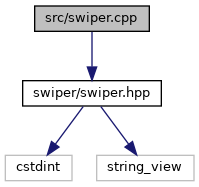
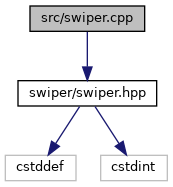
Travis build: 165
Commit: 5cc8380cc26ef2c0d9dc800b6d647a72bb5c41b5

diff --git a/namespaceswiper.html b/namespaceswiper.html
@@ -77,12 +77,12 @@ Functions</h2></td></tr>
 <tr class="memitem:a9fc0daa3bed5f7da055d9b4efc17758e"><td class="memItemLeft" align="right" valign="top">void&#160;</td><td class="memItemRight" valign="bottom"><a class="el" href="namespaceswiper.html#a9fc0daa3bed5f7da055d9b4efc17758e">Spin</a> (uint_fast32_t n) noexcept</td></tr>
 <tr class="memdesc:a9fc0daa3bed5f7da055d9b4efc17758e"><td class="mdescLeft">&#160;</td><td class="mdescRight">Spin performs n NOP's, useful for reducing benchmark noise.  <a href="namespaceswiper.html#a9fc0daa3bed5f7da055d9b4efc17758e">More...</a><br /></td></tr>
 <tr class="separator:a9fc0daa3bed5f7da055d9b4efc17758e"><td class="memSeparator" colspan="2">&#160;</td></tr>
-<tr class="memitem:a9134d86a7fd272a4e5755b59077321dd"><td class="memItemLeft" align="right" valign="top">void&#160;</td><td class="memItemRight" valign="bottom"><a class="el" href="namespaceswiper.html#a9134d86a7fd272a4e5755b59077321dd">WarmCache</a> (char *password, const std::string_view &amp;hash, uint_fast32_t n) noexcept</td></tr>
-<tr class="memdesc:a9134d86a7fd272a4e5755b59077321dd"><td class="mdescLeft">&#160;</td><td class="mdescRight">WarmCache accelerates successive <a class="el" href="namespaceswiper.html#a31bf3c2415b5b36b6fef855352c54c1b">Decrypt</a> calls, by prepopulating the system cache.  <a href="namespaceswiper.html#a9134d86a7fd272a4e5755b59077321dd">More...</a><br /></td></tr>
-<tr class="separator:a9134d86a7fd272a4e5755b59077321dd"><td class="memSeparator" colspan="2">&#160;</td></tr>
-<tr class="memitem:a31bf3c2415b5b36b6fef855352c54c1b"><td class="memItemLeft" align="right" valign="top">void&#160;</td><td class="memItemRight" valign="bottom"><a class="el" href="namespaceswiper.html#a31bf3c2415b5b36b6fef855352c54c1b">Decrypt</a> (char *password, const std::string_view &amp;hash) noexcept</td></tr>
-<tr class="memdesc:a31bf3c2415b5b36b6fef855352c54c1b"><td class="mdescLeft">&#160;</td><td class="mdescRight">Decrypt reverses Cisco IOS type 7 hashes.  <a href="namespaceswiper.html#a31bf3c2415b5b36b6fef855352c54c1b">More...</a><br /></td></tr>
-<tr class="separator:a31bf3c2415b5b36b6fef855352c54c1b"><td class="memSeparator" colspan="2">&#160;</td></tr>
+<tr class="memitem:a3dbd56f1b79952bcaebe53de028f95e2"><td class="memItemLeft" align="right" valign="top">void&#160;</td><td class="memItemRight" valign="bottom"><a class="el" href="namespaceswiper.html#a3dbd56f1b79952bcaebe53de028f95e2">WarmCache</a> (char *password, size_t hash_len, const char *hash, uint_fast32_t n) noexcept</td></tr>
+<tr class="memdesc:a3dbd56f1b79952bcaebe53de028f95e2"><td class="mdescLeft">&#160;</td><td class="mdescRight">WarmCache accelerates successive <a class="el" href="namespaceswiper.html#a310674d83e4cf5220e18f6983cfaab87">Decrypt</a> calls, by prepopulating the system cache.  <a href="namespaceswiper.html#a3dbd56f1b79952bcaebe53de028f95e2">More...</a><br /></td></tr>
+<tr class="separator:a3dbd56f1b79952bcaebe53de028f95e2"><td class="memSeparator" colspan="2">&#160;</td></tr>
+<tr class="memitem:a310674d83e4cf5220e18f6983cfaab87"><td class="memItemLeft" align="right" valign="top">void&#160;</td><td class="memItemRight" valign="bottom"><a class="el" href="namespaceswiper.html#a310674d83e4cf5220e18f6983cfaab87">Decrypt</a> (char *password, size_t hash_len, const char *hash) noexcept</td></tr>
+<tr class="memdesc:a310674d83e4cf5220e18f6983cfaab87"><td class="mdescLeft">&#160;</td><td class="mdescRight">Decrypt reverses Cisco IOS type 7 hashes.  <a href="namespaceswiper.html#a310674d83e4cf5220e18f6983cfaab87">More...</a><br /></td></tr>
+<tr class="separator:a310674d83e4cf5220e18f6983cfaab87"><td class="memSeparator" colspan="2">&#160;</td></tr>
 </table><table class="memberdecls">
 <tr class="heading"><td colspan="2"><h2 class="groupheader"><a name="var-members"></a>
 Variables</h2></td></tr>
@@ -94,8 +94,8 @@ Variables</h2></td></tr>
 <div class="textblock"><p>swiper manages legacy Cisco IOS^tm type 7 passwords. </p>
 <dl class="section copyright"><dt>Copyright</dt><dd>2020 YelloSoft </dd></dl>
 </div><h2 class="groupheader">Function Documentation</h2>
-<a id="a31bf3c2415b5b36b6fef855352c54c1b"></a>
-<h2 class="memtitle"><span class="permalink"><a href="#a31bf3c2415b5b36b6fef855352c54c1b">&#9670;&nbsp;</a></span>Decrypt()</h2>
+<a id="a310674d83e4cf5220e18f6983cfaab87"></a>
+<h2 class="memtitle"><span class="permalink"><a href="#a310674d83e4cf5220e18f6983cfaab87">&#9670;&nbsp;</a></span>Decrypt()</h2>
 
 <div class="memitem">
 <div class="memproto">
@@ -112,7 +112,13 @@ Variables</h2></td></tr>
         <tr>
           <td class="paramkey"></td>
           <td></td>
-          <td class="paramtype">const std::string_view &amp;&#160;</td>
+          <td class="paramtype">size_t&#160;</td>
+          <td class="paramname"><em>hash_len</em>, </td>
+        </tr>
+        <tr>
+          <td class="paramkey"></td>
+          <td></td>
+          <td class="paramtype">const char *&#160;</td>
           <td class="paramname"><em>hash</em>&#160;</td>
         </tr>
         <tr>
@@ -133,6 +139,7 @@ Variables</h2></td></tr>
 <dl class="params"><dt>Parameters</dt><dd>
   <table class="params">
     <tr><td class="paramname">password</td><td>out buffer (hash length / 2 characters) </td></tr>
+    <tr><td class="paramname">hash_len</td><td>string length of hash </td></tr>
     <tr><td class="paramname">hash</td><td>Cisco IOS^tm type 7 (lowercase, min length 4) </td></tr>
   </table>
   </dd>
@@ -175,8 +182,8 @@ Variables</h2></td></tr>
 
 </div>
 </div>
-<a id="a9134d86a7fd272a4e5755b59077321dd"></a>
-<h2 class="memtitle"><span class="permalink"><a href="#a9134d86a7fd272a4e5755b59077321dd">&#9670;&nbsp;</a></span>WarmCache()</h2>
+<a id="a3dbd56f1b79952bcaebe53de028f95e2"></a>
+<h2 class="memtitle"><span class="permalink"><a href="#a3dbd56f1b79952bcaebe53de028f95e2">&#9670;&nbsp;</a></span>WarmCache()</h2>
 
 <div class="memitem">
 <div class="memproto">
@@ -193,7 +200,13 @@ Variables</h2></td></tr>
         <tr>
           <td class="paramkey"></td>
           <td></td>
-          <td class="paramtype">const std::string_view &amp;&#160;</td>
+          <td class="paramtype">size_t&#160;</td>
+          <td class="paramname"><em>hash_len</em>, </td>
+        </tr>
+        <tr>
+          <td class="paramkey"></td>
+          <td></td>
+          <td class="paramtype">const char *&#160;</td>
           <td class="paramname"><em>hash</em>, </td>
         </tr>
         <tr>
@@ -215,11 +228,12 @@ Variables</h2></td></tr>
 </table>
 </div><div class="memdoc">
 
-<p>WarmCache accelerates successive <a class="el" href="namespaceswiper.html#a31bf3c2415b5b36b6fef855352c54c1b">Decrypt</a> calls, by prepopulating the system cache. </p>
+<p>WarmCache accelerates successive <a class="el" href="namespaceswiper.html#a310674d83e4cf5220e18f6983cfaab87">Decrypt</a> calls, by prepopulating the system cache. </p>
 <p>Warning: Missing null terminator at password[hash.length() / 2 - 1].</p>
 <dl class="params"><dt>Parameters</dt><dd>
   <table class="params">
     <tr><td class="paramname">password</td><td>out buffer (hash length / 2 characters) </td></tr>
+    <tr><td class="paramname">hash_len</td><td>string length of hash </td></tr>
     <tr><td class="paramname">hash</td><td>Cisco IOS^tm type 7 (lowercase, min length 4) </td></tr>
     <tr><td class="paramname">n</td><td>iterations (non-negative) </td></tr>
   </table>

diff --git a/swiper_8hpp_source.html b/swiper_8hpp_source.html
@@ -71,8 +71,8 @@ $(function() {
 <div class="contents">
 <a href="swiper_8hpp.html">Go to the documentation of this file.</a><div class="fragment"><div class="line"><a name="l00001"></a><span class="lineno">    1</span>&#160;<span class="preprocessor">#pragma once</span></div>
 <div class="line"><a name="l00002"></a><span class="lineno">    2</span>&#160; </div>
-<div class="line"><a name="l00010"></a><span class="lineno">   10</span>&#160;<span class="preprocessor">#include &lt;cstdint&gt;</span></div>
-<div class="line"><a name="l00011"></a><span class="lineno">   11</span>&#160;<span class="preprocessor">#include &lt;string_view&gt;</span></div>
+<div class="line"><a name="l00010"></a><span class="lineno">   10</span>&#160;<span class="preprocessor">#include &lt;cstddef&gt;</span></div>
+<div class="line"><a name="l00011"></a><span class="lineno">   11</span>&#160;<span class="preprocessor">#include &lt;cstdint&gt;</span></div>
 <div class="line"><a name="l00012"></a><span class="lineno">   12</span>&#160; </div>
 <div class="line"><a name="l00016"></a><span class="lineno">   16</span>&#160;<span class="preprocessor">#if defined(_WIN32)</span></div>
 <div class="line"><a name="l00017"></a><span class="lineno">   17</span>&#160;<span class="preprocessor">#define ALWAYS_INLINE inline __forceinline</span></div>
@@ -96,14 +96,14 @@ $(function() {
 <div class="line"><a name="l00041"></a><span class="lineno">   41</span>&#160; </div>
 <div class="line"><a name="l00047"></a><span class="lineno">   47</span>&#160;    <span class="keywordtype">void</span> <a class="code" href="namespaceswiper.html#a9fc0daa3bed5f7da055d9b4efc17758e">Spin</a>(uint_fast32_t n) noexcept;</div>
 <div class="line"><a name="l00048"></a><span class="lineno">   48</span>&#160; </div>
-<div class="line"><a name="l00059"></a><span class="lineno">   59</span>&#160;    <span class="keywordtype">void</span> <a class="code" href="namespaceswiper.html#a9134d86a7fd272a4e5755b59077321dd">WarmCache</a>(<span class="keywordtype">char</span> *password, <span class="keyword">const</span> std::string_view&amp; hash, uint_fast32_t n) noexcept;</div>
-<div class="line"><a name="l00060"></a><span class="lineno">   60</span>&#160; </div>
-<div class="line"><a name="l00071"></a><span class="lineno">   71</span>&#160;    <span class="keywordtype">void</span> <a class="code" href="namespaceswiper.html#a31bf3c2415b5b36b6fef855352c54c1b">Decrypt</a>(<span class="keywordtype">char</span> *password, <span class="keyword">const</span> std::string_view&amp; hash) noexcept;</div>
-<div class="line"><a name="l00072"></a><span class="lineno">   72</span>&#160;}</div>
+<div class="line"><a name="l00060"></a><span class="lineno">   60</span>&#160;    <span class="keywordtype">void</span> <a class="code" href="namespaceswiper.html#a3dbd56f1b79952bcaebe53de028f95e2">WarmCache</a>(<span class="keywordtype">char</span> *password, <span class="keywordtype">size_t</span> hash_len, <span class="keyword">const</span> <span class="keywordtype">char</span> *hash, uint_fast32_t n) noexcept;</div>
+<div class="line"><a name="l00061"></a><span class="lineno">   61</span>&#160; </div>
+<div class="line"><a name="l00073"></a><span class="lineno">   73</span>&#160;    <span class="keywordtype">void</span> <a class="code" href="namespaceswiper.html#a310674d83e4cf5220e18f6983cfaab87">Decrypt</a>(<span class="keywordtype">char</span> *password, <span class="keywordtype">size_t</span> hash_len, <span class="keyword">const</span> <span class="keywordtype">char</span> *hash) noexcept;</div>
+<div class="line"><a name="l00074"></a><span class="lineno">   74</span>&#160;}</div>
 </div><!-- fragment --></div><!-- contents -->
+<div class="ttc" id="anamespaceswiper_html_a310674d83e4cf5220e18f6983cfaab87"><div class="ttname"><a href="namespaceswiper.html#a310674d83e4cf5220e18f6983cfaab87">swiper::Decrypt</a></div><div class="ttdeci">void Decrypt(char *password, size_t hash_len, const char *hash) noexcept</div><div class="ttdoc">Decrypt reverses Cisco IOS type 7 hashes.</div><div class="ttdef"><b>Definition:</b> swiper.cpp:32</div></div>
+<div class="ttc" id="anamespaceswiper_html_a3dbd56f1b79952bcaebe53de028f95e2"><div class="ttname"><a href="namespaceswiper.html#a3dbd56f1b79952bcaebe53de028f95e2">swiper::WarmCache</a></div><div class="ttdeci">void WarmCache(char *password, size_t hash_len, const char *hash, uint_fast32_t n) noexcept</div><div class="ttdoc">WarmCache accelerates successive Decrypt calls, by prepopulating the system cache.</div><div class="ttdef"><b>Definition:</b> swiper.cpp:26</div></div>
 <div class="ttc" id="anamespaceswiper_html"><div class="ttname"><a href="namespaceswiper.html">swiper</a></div><div class="ttdoc">swiper manages legacy Cisco IOS^tm type 7 passwords.</div><div class="ttdef"><b>Definition:</b> swiper.hpp:27</div></div>
-<div class="ttc" id="anamespaceswiper_html_a9134d86a7fd272a4e5755b59077321dd"><div class="ttname"><a href="namespaceswiper.html#a9134d86a7fd272a4e5755b59077321dd">swiper::WarmCache</a></div><div class="ttdeci">void WarmCache(char *password, const std::string_view &amp;hash, uint_fast32_t n) noexcept</div><div class="ttdoc">WarmCache accelerates successive Decrypt calls, by prepopulating the system cache.</div><div class="ttdef"><b>Definition:</b> swiper.cpp:26</div></div>
-<div class="ttc" id="anamespaceswiper_html_a31bf3c2415b5b36b6fef855352c54c1b"><div class="ttname"><a href="namespaceswiper.html#a31bf3c2415b5b36b6fef855352c54c1b">swiper::Decrypt</a></div><div class="ttdeci">void Decrypt(char *password, const std::string_view &amp;hash) noexcept</div><div class="ttdoc">Decrypt reverses Cisco IOS type 7 hashes.</div><div class="ttdef"><b>Definition:</b> swiper.cpp:32</div></div>
 <div class="ttc" id="anamespaceswiper_html_a0e5a5404a5aaf5ab2bdc034346d402d0"><div class="ttname"><a href="namespaceswiper.html#a0e5a5404a5aaf5ab2bdc034346d402d0">swiper::Xlat</a></div><div class="ttdeci">const char Xlat[32]</div><div class="ttdoc">Xlat is a fixed XOR key.</div><div class="ttdef"><b>Definition:</b> swiper.hpp:31</div></div>
 <div class="ttc" id="anamespaceswiper_html_a9fc0daa3bed5f7da055d9b4efc17758e"><div class="ttname"><a href="namespaceswiper.html#a9fc0daa3bed5f7da055d9b4efc17758e">swiper::Spin</a></div><div class="ttdeci">void Spin(uint_fast32_t n) noexcept</div><div class="ttdoc">Spin performs n NOP's, useful for reducing benchmark noise.</div><div class="ttdef"><b>Definition:</b> swiper.cpp:22</div></div>
 <!-- start footer part -->

diff --git a/swiper_8hpp.html b/swiper_8hpp.html
@@ -74,16 +74,16 @@ $(function() {
 <div class="title">swiper.hpp File Reference</div>  </div>
 </div><!--header-->
 <div class="contents">
-<div class="textblock"><code>#include &lt;cstdint&gt;</code><br />
-<code>#include &lt;string_view&gt;</code><br />
+<div class="textblock"><code>#include &lt;cstddef&gt;</code><br />
+<code>#include &lt;cstdint&gt;</code><br />
 </div><div class="textblock"><div class="dynheader">
 Include dependency graph for swiper.hpp:</div>
 <div class="dyncontent">
 <div class="center"><img src="swiper_8hpp__incl.png" border="0" usemap="#include_2swiper_2swiper_8hpp" alt=""/></div>
 <map name="include_2swiper_2swiper_8hpp" id="include_2swiper_2swiper_8hpp">
 <area shape="rect" title=" " alt="" coords="5,5,196,32"/>
-<area shape="rect" title=" " alt="" coords="14,80,81,107"/>
-<area shape="rect" title=" " alt="" coords="105,80,203,107"/>
+<area shape="rect" title=" " alt="" coords="19,80,89,107"/>
+<area shape="rect" title=" " alt="" coords="114,80,181,107"/>
 </map>
 </div>
 </div><div class="textblock"><div class="dynheader">
@@ -117,12 +117,12 @@ Functions</h2></td></tr>
 <tr class="memitem:a9fc0daa3bed5f7da055d9b4efc17758e"><td class="memItemLeft" align="right" valign="top">void&#160;</td><td class="memItemRight" valign="bottom"><a class="el" href="namespaceswiper.html#a9fc0daa3bed5f7da055d9b4efc17758e">swiper::Spin</a> (uint_fast32_t n) noexcept</td></tr>
 <tr class="memdesc:a9fc0daa3bed5f7da055d9b4efc17758e"><td class="mdescLeft">&#160;</td><td class="mdescRight">Spin performs n NOP's, useful for reducing benchmark noise.  <a href="namespaceswiper.html#a9fc0daa3bed5f7da055d9b4efc17758e">More...</a><br /></td></tr>
 <tr class="separator:a9fc0daa3bed5f7da055d9b4efc17758e"><td class="memSeparator" colspan="2">&#160;</td></tr>
-<tr class="memitem:a9134d86a7fd272a4e5755b59077321dd"><td class="memItemLeft" align="right" valign="top">void&#160;</td><td class="memItemRight" valign="bottom"><a class="el" href="namespaceswiper.html#a9134d86a7fd272a4e5755b59077321dd">swiper::WarmCache</a> (char *password, const std::string_view &amp;hash, uint_fast32_t n) noexcept</td></tr>
-<tr class="memdesc:a9134d86a7fd272a4e5755b59077321dd"><td class="mdescLeft">&#160;</td><td class="mdescRight">WarmCache accelerates successive <a class="el" href="namespaceswiper.html#a31bf3c2415b5b36b6fef855352c54c1b">Decrypt</a> calls, by prepopulating the system cache.  <a href="namespaceswiper.html#a9134d86a7fd272a4e5755b59077321dd">More...</a><br /></td></tr>
-<tr class="separator:a9134d86a7fd272a4e5755b59077321dd"><td class="memSeparator" colspan="2">&#160;</td></tr>
-<tr class="memitem:a31bf3c2415b5b36b6fef855352c54c1b"><td class="memItemLeft" align="right" valign="top">void&#160;</td><td class="memItemRight" valign="bottom"><a class="el" href="namespaceswiper.html#a31bf3c2415b5b36b6fef855352c54c1b">swiper::Decrypt</a> (char *password, const std::string_view &amp;hash) noexcept</td></tr>
-<tr class="memdesc:a31bf3c2415b5b36b6fef855352c54c1b"><td class="mdescLeft">&#160;</td><td class="mdescRight">Decrypt reverses Cisco IOS type 7 hashes.  <a href="namespaceswiper.html#a31bf3c2415b5b36b6fef855352c54c1b">More...</a><br /></td></tr>
-<tr class="separator:a31bf3c2415b5b36b6fef855352c54c1b"><td class="memSeparator" colspan="2">&#160;</td></tr>
+<tr class="memitem:a3dbd56f1b79952bcaebe53de028f95e2"><td class="memItemLeft" align="right" valign="top">void&#160;</td><td class="memItemRight" valign="bottom"><a class="el" href="namespaceswiper.html#a3dbd56f1b79952bcaebe53de028f95e2">swiper::WarmCache</a> (char *password, size_t hash_len, const char *hash, uint_fast32_t n) noexcept</td></tr>
+<tr class="memdesc:a3dbd56f1b79952bcaebe53de028f95e2"><td class="mdescLeft">&#160;</td><td class="mdescRight">WarmCache accelerates successive <a class="el" href="namespaceswiper.html#a310674d83e4cf5220e18f6983cfaab87">Decrypt</a> calls, by prepopulating the system cache.  <a href="namespaceswiper.html#a3dbd56f1b79952bcaebe53de028f95e2">More...</a><br /></td></tr>
+<tr class="separator:a3dbd56f1b79952bcaebe53de028f95e2"><td class="memSeparator" colspan="2">&#160;</td></tr>
+<tr class="memitem:a310674d83e4cf5220e18f6983cfaab87"><td class="memItemLeft" align="right" valign="top">void&#160;</td><td class="memItemRight" valign="bottom"><a class="el" href="namespaceswiper.html#a310674d83e4cf5220e18f6983cfaab87">swiper::Decrypt</a> (char *password, size_t hash_len, const char *hash) noexcept</td></tr>
+<tr class="memdesc:a310674d83e4cf5220e18f6983cfaab87"><td class="mdescLeft">&#160;</td><td class="mdescRight">Decrypt reverses Cisco IOS type 7 hashes.  <a href="namespaceswiper.html#a310674d83e4cf5220e18f6983cfaab87">More...</a><br /></td></tr>
+<tr class="separator:a310674d83e4cf5220e18f6983cfaab87"><td class="memSeparator" colspan="2">&#160;</td></tr>
 </table><table class="memberdecls">
 <tr class="heading"><td colspan="2"><h2 class="groupheader"><a name="var-members"></a>
 Variables</h2></td></tr>

diff --git a/swiper_8cpp.html b/swiper_8cpp.html
@@ -78,10 +78,10 @@ Include dependency graph for swiper.cpp:</div>
 <div class="dyncontent">
 <div class="center"><img src="swiper_8cpp__incl.png" border="0" usemap="#src_2swiper_8cpp" alt=""/></div>
 <map name="src_2swiper_8cpp" id="src_2swiper_8cpp">
-<area shape="rect" title=" " alt="" coords="35,5,149,32"/>
-<area shape="rect" href="swiper_8hpp.html" title=" " alt="" coords="23,80,161,107"/>
-<area shape="rect" title=" " alt="" coords="5,155,72,181"/>
-<area shape="rect" title=" " alt="" coords="97,155,194,181"/>
+<area shape="rect" title=" " alt="" coords="30,5,145,32"/>
+<area shape="rect" href="swiper_8hpp.html" title=" " alt="" coords="18,80,157,107"/>
+<area shape="rect" title=" " alt="" coords="5,155,76,181"/>
+<area shape="rect" title=" " alt="" coords="101,155,167,181"/>
 </map>
 </div>
 </div><table class="memberdecls">
@@ -96,12 +96,12 @@ Functions</h2></td></tr>
 <tr class="memitem:a9fc0daa3bed5f7da055d9b4efc17758e"><td class="memItemLeft" align="right" valign="top">void&#160;</td><td class="memItemRight" valign="bottom"><a class="el" href="namespaceswiper.html#a9fc0daa3bed5f7da055d9b4efc17758e">swiper::Spin</a> (uint_fast32_t n) noexcept</td></tr>
 <tr class="memdesc:a9fc0daa3bed5f7da055d9b4efc17758e"><td class="mdescLeft">&#160;</td><td class="mdescRight">Spin performs n NOP's, useful for reducing benchmark noise.  <a href="namespaceswiper.html#a9fc0daa3bed5f7da055d9b4efc17758e">More...</a><br /></td></tr>
 <tr class="separator:a9fc0daa3bed5f7da055d9b4efc17758e"><td class="memSeparator" colspan="2">&#160;</td></tr>
-<tr class="memitem:a9134d86a7fd272a4e5755b59077321dd"><td class="memItemLeft" align="right" valign="top">void&#160;</td><td class="memItemRight" valign="bottom"><a class="el" href="namespaceswiper.html#a9134d86a7fd272a4e5755b59077321dd">swiper::WarmCache</a> (char *password, const std::string_view &amp;hash, uint_fast32_t n) noexcept</td></tr>
-<tr class="memdesc:a9134d86a7fd272a4e5755b59077321dd"><td class="mdescLeft">&#160;</td><td class="mdescRight">WarmCache accelerates successive <a class="el" href="namespaceswiper.html#a31bf3c2415b5b36b6fef855352c54c1b">Decrypt</a> calls, by prepopulating the system cache.  <a href="namespaceswiper.html#a9134d86a7fd272a4e5755b59077321dd">More...</a><br /></td></tr>
-<tr class="separator:a9134d86a7fd272a4e5755b59077321dd"><td class="memSeparator" colspan="2">&#160;</td></tr>
-<tr class="memitem:a31bf3c2415b5b36b6fef855352c54c1b"><td class="memItemLeft" align="right" valign="top">void&#160;</td><td class="memItemRight" valign="bottom"><a class="el" href="namespaceswiper.html#a31bf3c2415b5b36b6fef855352c54c1b">swiper::Decrypt</a> (char *password, const std::string_view &amp;hash) noexcept</td></tr>
-<tr class="memdesc:a31bf3c2415b5b36b6fef855352c54c1b"><td class="mdescLeft">&#160;</td><td class="mdescRight">Decrypt reverses Cisco IOS type 7 hashes.  <a href="namespaceswiper.html#a31bf3c2415b5b36b6fef855352c54c1b">More...</a><br /></td></tr>
-<tr class="separator:a31bf3c2415b5b36b6fef855352c54c1b"><td class="memSeparator" colspan="2">&#160;</td></tr>
+<tr class="memitem:a3dbd56f1b79952bcaebe53de028f95e2"><td class="memItemLeft" align="right" valign="top">void&#160;</td><td class="memItemRight" valign="bottom"><a class="el" href="namespaceswiper.html#a3dbd56f1b79952bcaebe53de028f95e2">swiper::WarmCache</a> (char *password, size_t hash_len, const char *hash, uint_fast32_t n) noexcept</td></tr>
+<tr class="memdesc:a3dbd56f1b79952bcaebe53de028f95e2"><td class="mdescLeft">&#160;</td><td class="mdescRight">WarmCache accelerates successive <a class="el" href="namespaceswiper.html#a310674d83e4cf5220e18f6983cfaab87">Decrypt</a> calls, by prepopulating the system cache.  <a href="namespaceswiper.html#a3dbd56f1b79952bcaebe53de028f95e2">More...</a><br /></td></tr>
+<tr class="separator:a3dbd56f1b79952bcaebe53de028f95e2"><td class="memSeparator" colspan="2">&#160;</td></tr>
+<tr class="memitem:a310674d83e4cf5220e18f6983cfaab87"><td class="memItemLeft" align="right" valign="top">void&#160;</td><td class="memItemRight" valign="bottom"><a class="el" href="namespaceswiper.html#a310674d83e4cf5220e18f6983cfaab87">swiper::Decrypt</a> (char *password, size_t hash_len, const char *hash) noexcept</td></tr>
+<tr class="memdesc:a310674d83e4cf5220e18f6983cfaab87"><td class="mdescLeft">&#160;</td><td class="mdescRight">Decrypt reverses Cisco IOS type 7 hashes.  <a href="namespaceswiper.html#a310674d83e4cf5220e18f6983cfaab87">More...</a><br /></td></tr>
+<tr class="separator:a310674d83e4cf5220e18f6983cfaab87"><td class="memSeparator" colspan="2">&#160;</td></tr>
 </table>
 </div><!-- contents -->
 <!-- start footer part -->

diff --git a/main_8cpp.html b/main_8cpp.html
@@ -73,20 +73,20 @@ $(function() {
 <div class="contents">
 <div class="textblock"><code>#include &quot;<a class="el" href="main_8hpp_source.html">main.hpp</a>&quot;</code><br />
 <code>#include &lt;cassert&gt;</code><br />
-<code>#include &lt;string&gt;</code><br />
+<code>#include &lt;cstring&gt;</code><br />
 <code>#include &quot;<a class="el" href="swiper_8hpp_source.html">swiper/swiper.hpp</a>&quot;</code><br />
 </div><div class="textblock"><div class="dynheader">
 Include dependency graph for main.cpp:</div>
 <div class="dyncontent">
 <div class="center"><img src="main_8cpp__incl.png" border="0" usemap="#src_2cmd_2test-swiper_2main_8cpp" alt=""/></div>
 <map name="src_2cmd_2test-swiper_2main_8cpp" id="src_2cmd_2test-swiper_2main_8cpp">
-<area shape="rect" title=" " alt="" coords="115,5,266,47"/>
+<area shape="rect" title=" " alt="" coords="117,5,267,47"/>
 <area shape="rect" href="main_8hpp.html" title=" " alt="" coords="5,95,88,121"/>
 <area shape="rect" title=" " alt="" coords="112,95,181,121"/>
-<area shape="rect" title=" " alt="" coords="205,95,264,121"/>
-<area shape="rect" href="swiper_8hpp.html" title=" " alt="" coords="288,95,427,121"/>
-<area shape="rect" title=" " alt="" coords="271,169,337,196"/>
-<area shape="rect" title=" " alt="" coords="362,169,459,196"/>
+<area shape="rect" title=" " alt="" coords="205,95,272,121"/>
+<area shape="rect" href="swiper_8hpp.html" title=" " alt="" coords="296,95,435,121"/>
+<area shape="rect" title=" " alt="" coords="283,169,354,196"/>
+<area shape="rect" title=" " alt="" coords="379,169,445,196"/>
 </map>
 </div>
 </div><table class="memberdecls">
@@ -110,6 +110,7 @@ Functions</h2></td></tr>
         </tr>
       </table>
 </div><div class="memdoc">
+<dl class="section copyright"><dt>Copyright</dt><dd>2021 YelloSoft </dd></dl>
 
 </div>
 </div>

diff --git a/namespacemembers.html b/namespacemembers.html
@@ -63,13 +63,13 @@ $(function() {
 <div class="contents">
 <div class="textblock">Here is a list of all namespace members with links to the namespace documentation for each member:</div><ul>
 <li>Decrypt()
-: <a class="el" href="namespaceswiper.html#a31bf3c2415b5b36b6fef855352c54c1b">swiper</a>
+: <a class="el" href="namespaceswiper.html#a310674d83e4cf5220e18f6983cfaab87">swiper</a>
 </li>
 <li>Spin()
 : <a class="el" href="namespaceswiper.html#a9fc0daa3bed5f7da055d9b4efc17758e">swiper</a>
 </li>
 <li>WarmCache()
-: <a class="el" href="namespaceswiper.html#a9134d86a7fd272a4e5755b59077321dd">swiper</a>
+: <a class="el" href="namespaceswiper.html#a3dbd56f1b79952bcaebe53de028f95e2">swiper</a>
 </li>
 <li>Xlat
 : <a class="el" href="namespaceswiper.html#a0e5a5404a5aaf5ab2bdc034346d402d0">swiper</a>

diff --git a/namespacemembers_func.html b/namespacemembers_func.html
@@ -63,13 +63,13 @@ $(function() {
 <div class="contents">
 &#160;<ul>
 <li>Decrypt()
-: <a class="el" href="namespaceswiper.html#a31bf3c2415b5b36b6fef855352c54c1b">swiper</a>
+: <a class="el" href="namespaceswiper.html#a310674d83e4cf5220e18f6983cfaab87">swiper</a>
 </li>
 <li>Spin()
 : <a class="el" href="namespaceswiper.html#a9fc0daa3bed5f7da055d9b4efc17758e">swiper</a>
 </li>
 <li>WarmCache()
-: <a class="el" href="namespaceswiper.html#a9134d86a7fd272a4e5755b59077321dd">swiper</a>
+: <a class="el" href="namespaceswiper.html#a3dbd56f1b79952bcaebe53de028f95e2">swiper</a>
 </li>
 </ul>
 </div><!-- contents -->

diff --git a/search/all_5.js b/search/all_5.js
@@ -1,4 +1,4 @@
 var searchData=
 [
-  ['warmcache_10',['WarmCache',['../namespaceswiper.html#a9134d86a7fd272a4e5755b59077321dd',1,'swiper']]]
+  ['warmcache_10',['WarmCache',['../namespaceswiper.html#a3dbd56f1b79952bcaebe53de028f95e2',1,'swiper']]]
 ];

diff --git a/search/functions_3.js b/search/functions_3.js
@@ -1,4 +1,4 @@
 var searchData=
 [
-  ['warmcache_20',['WarmCache',['../namespaceswiper.html#a9134d86a7fd272a4e5755b59077321dd',1,'swiper']]]
+  ['warmcache_20',['WarmCache',['../namespaceswiper.html#a3dbd56f1b79952bcaebe53de028f95e2',1,'swiper']]]
 ];

diff --git a/search/functions_0.js b/search/functions_0.js
@@ -1,4 +1,4 @@
 var searchData=
 [
-  ['decrypt_17',['Decrypt',['../namespaceswiper.html#a31bf3c2415b5b36b6fef855352c54c1b',1,'swiper']]]
+  ['decrypt_17',['Decrypt',['../namespaceswiper.html#a310674d83e4cf5220e18f6983cfaab87',1,'swiper']]]
 ];

diff --git a/search/all_1.js b/search/all_1.js
@@ -1,4 +1,4 @@
 var searchData=
 [
-  ['decrypt_1',['Decrypt',['../namespaceswiper.html#a31bf3c2415b5b36b6fef855352c54c1b',1,'swiper']]]
+  ['decrypt_1',['Decrypt',['../namespaceswiper.html#a310674d83e4cf5220e18f6983cfaab87',1,'swiper']]]
 ];

diff --git a/README.md b/README.md
@@ -1,1 +1,1 @@
-Wed 24 Mar 2021 01:52:43 AM UTC
+Wed 24 Mar 2021 04:00:12 AM UTC
